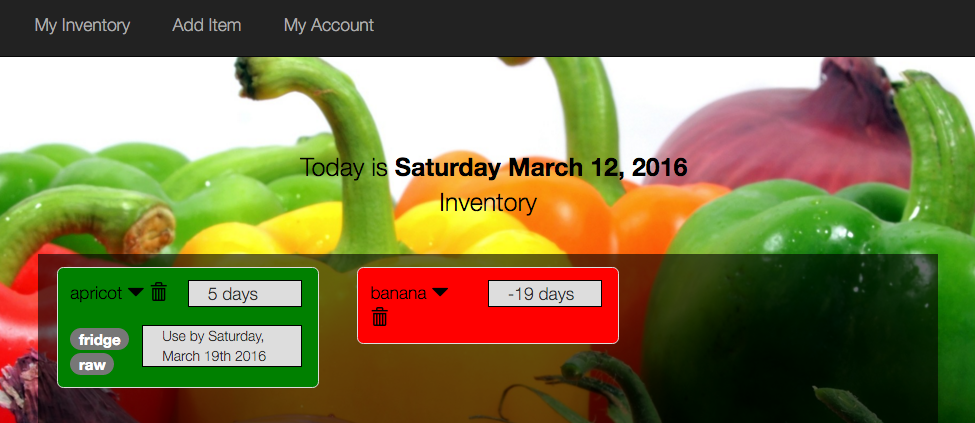
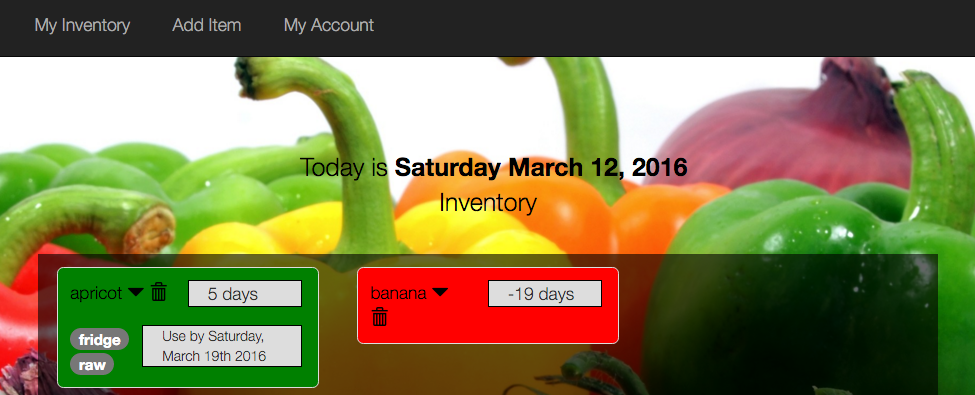
adjusted section padding on dimensions

diff --git a/css/styles.css b/css/styles.css
@@ -85,7 +85,7 @@ p {
 }
 
 section {
-    padding: 70px 0;
+    padding: 25px 0;
     min-height: auto;
     position: relative;
     text-align: center;
@@ -455,7 +455,7 @@ i {
     }
     
     section {
-        padding: 50px 0;
+        padding: 35px 0;
     }
 }
 
